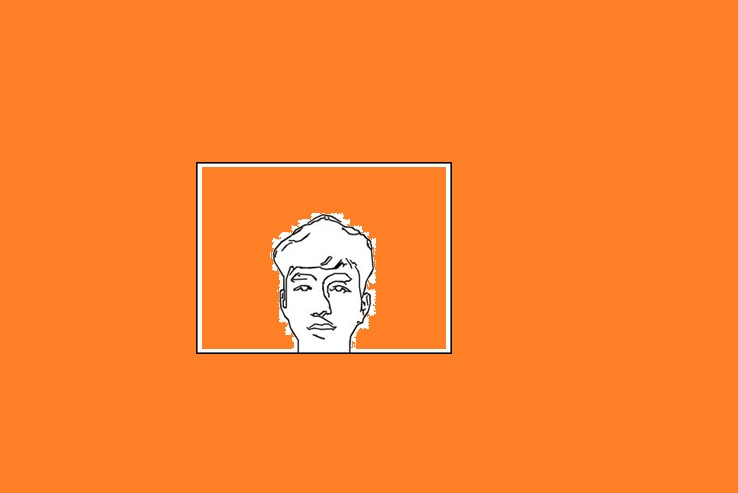
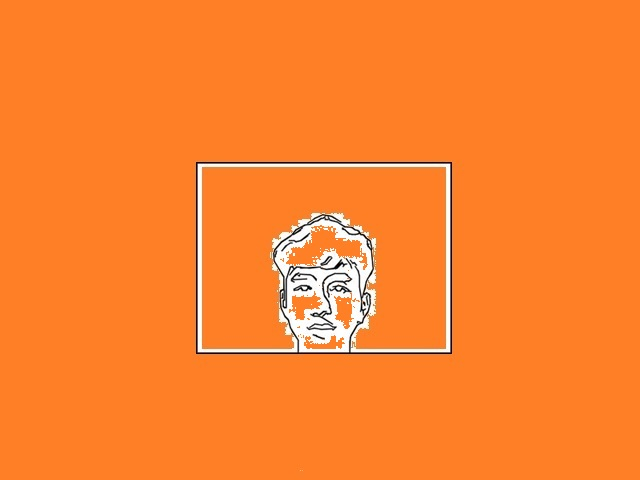
update sharping, change brightness and saturation of camera

Changed region(s): [[0.25, 0.3125, 0.7188, 0.75]]

diff --git a/EvaluateResult/extract_frame.py b/EvaluateResult/extract_frame.py
@@ -4,7 +4,7 @@ import numpy as np
 from PIL import Image
 import os
 from EvaluateResult import helper_image
-
+from PIL import ImageEnhance, ImageFilter
 # === Hàm resize giữ nguyên tỉ lệ, thêm padding trắng ===
 def resize_with_padding(image, target_size=(320, 240), fill_color=(255, 255, 255)):
     original_ratio = image.width / image.height # Tính tỉ lệ gốc của ảnh
@@ -18,12 +18,10 @@ def resize_with_padding(image, target_size=(320, 240), fill_color=(255, 255, 255
         new_width = round(new_height * original_ratio)  # Resize theo chiều dọc
 
     resized_image = image.resize((new_width, new_height), Image.Resampling.LANCZOS)
-    resized_image_cv = np.array(resized_image)[:, :, ::-1]  # Convert RGB (PIL) to BGR (OpenCV)
-    resized_image_cv_rgb = cv2.cvtColor(resized_image_cv, cv2.COLOR_BGR2RGB)
-    new_image = helper_image.filter_color(resized_image_cv_rgb) # lọc màu
-    # Chuyển lại PIL.Image sau khi xử lý
-    final_image = Image.fromarray(new_image)
-    return final_image
+    new_image = Image.new("RGB", target_size, fill_color) # Tạo ảnh nền trắng 320x240
+    offset = ((target_size[0] - new_width) // 2, (target_size[1] - new_height) // 2) # Căn giữa ảnh nhỏ lên nền
+    new_image.paste(resized_image, offset) # Ghép vào giữa
+    return new_image
 
 def preprocessing(img_name):
 # # === Xử lý từng ảnh ===
@@ -33,6 +31,7 @@ def preprocessing(img_name):
     full_path = os.path.join(base_dir, "input_capture_excam", img_name)
 
     img = cv2.imread(full_path)
+    # img = cv2.flip(img, 1)
     if img is None:
         return None
     # === Thư mục đầu ra ===
@@ -40,7 +39,8 @@ def preprocessing(img_name):
     output_inside_dir = 'output_image' # đầu ra chỉ còn ảnh bên trong khung
     os.makedirs(output_frame_dir, exist_ok=True)
     os.makedirs(output_inside_dir, exist_ok=True)
-
+    filtered = helper_image.filter_color(img)
+    img = cv2.cvtColor(filtered, cv2.COLOR_GRAY2BGR)
     gray = cv2.cvtColor(img, cv2.COLOR_BGR2GRAY)
     _, thresh = cv2.threshold(gray, 200, 255, cv2.THRESH_BINARY_INV)  # Nhị phân hóa để dễ tìm khung
     contours, _ = cv2.findContours(thresh, cv2.RETR_EXTERNAL, cv2.CHAIN_APPROX_SIMPLE)  # Tìm contour ngoài cùng
@@ -58,10 +58,10 @@ def preprocessing(img_name):
         x, y, w, h = cv2.boundingRect(frame_contour)  # Lấy tọa độ khung chữ nhật
 
         # # === output_frame: CÓ KHUNG, không resize ===
-        # frame_crop = img[y:y + h, x:x + w]  # Cắt nguyên khung
+        frame_crop = img[y:y + h, x:x + w]  # Cắt nguyên khung
         frame_filename = img_name
-        # frame_path = os.path.join(output_frame_dir, frame_filename)
-        # cv2.imwrite(frame_path, frame_crop)
+        frame_path = os.path.join(output_frame_dir, frame_filename)
+        cv2.imwrite(frame_path, frame_crop)
 
         # === output_insideFrame: KHÔNG KHUNG, có resize giữ tỉ lệ ===
         margin = 5  # loại bỏ viền khung
@@ -69,8 +69,12 @@ def preprocessing(img_name):
         pil_image = Image.fromarray(cv2.cvtColor(inner_crop, cv2.COLOR_BGR2RGB))  # Chuyển sang RGB
         resized = resize_with_padding(pil_image, target_size=(320, 240))
         resized = resized.convert("RGB")
-        inside_path = os.path.join(base_dir,output_inside_dir, frame_filename)
-        resized.save(inside_path, dpi=(300, 300))
+
+        # Làm sắc nét ảnh bằng PIL
+        resized = resized.filter(ImageFilter.UnsharpMask(radius=2, percent=150, threshold=3))
+
+        inside_path = os.path.join(base_dir, output_inside_dir, frame_filename)
+        resized.save(inside_path, dpi=(600, 600), quality=100, progressive=True)
 
         print(f"✅ OK: {os.path.basename(full_path)} → xử lý thành công")
         return None

diff --git a/serialWithUI.py b/serialWithUI.py
@@ -367,7 +367,7 @@ class App:
 
         self.build_gui()
         self.start_serial()
-        self.start_camera(1)
+        self.start_camera(0)
 
     def build_gui(self):
         img_frame = ttk.Frame(self.root)
@@ -551,6 +551,7 @@ class App:
         if self.cap:
             self.cap.release()
         self.cap = cv2.VideoCapture(camera_index)
+
         if self.cap.isOpened():
             # Cấu hình camera để giảm lag
             self.cap.set(cv2.CAP_PROP_FRAME_WIDTH, 640)
@@ -560,6 +561,11 @@ class App:
 
     def capture_loop(self):
         while self.running and self.cap and self.cap.isOpened():
+            if self.source_var == "ex_camera":
+                # Set MIN saturation (màu gần trắng đen)
+                self.cap.set(cv2.CAP_PROP_SATURATION, 0)
+                # Set MAX brightness (hình sáng nhất có thể)
+                self.cap.set(cv2.CAP_PROP_BRIGHTNESS, 255)
             ret, frame = self.cap.read()
             if ret:
                 frame = cv2.flip(frame, 1)
@@ -647,7 +653,6 @@ class App:
                         img = Image.open(image_path)
                         img = img.resize((int(1836 * 480 / 3264), 480), Image.LANCZOS)
                         self.right_img_label.after(0, lambda: self.display_image(self.right_img_label, img))
-
                         self.show_mirror = False
                         self.is_simulate_image = False
                         global_var.is_capture = False

diff --git a/camera_test.py b/camera_test.py
@@ -1,0 +1,38 @@
+import cv2
+
+def nothing(x):
+    pass
+
+# Mở camera
+cap = cv2.VideoCapture(1)  # Thay 0 bằng 1 nếu dùng camera ngoài
+
+# Tạo cửa sổ và các thanh trượt
+cv2.namedWindow('Camera Settings')
+
+cv2.createTrackbar('Brightness', 'Camera Settings', 50, 255, nothing)
+cv2.createTrackbar('Contrast', 'Camera Settings', 50, 255, nothing)
+cv2.createTrackbar('Saturation', 'Camera Settings', 50, 255, nothing)
+
+while True:
+    # Đọc giá trị từ thanh trượt
+    brightness = cv2.getTrackbarPos('Brightness', 'Camera Settings')
+    contrast = cv2.getTrackbarPos('Contrast', 'Camera Settings')
+    saturation = cv2.getTrackbarPos('Saturation', 'Camera Settings')
+
+    # Cập nhật các thông số camera
+    cap.set(cv2.CAP_PROP_BRIGHTNESS, brightness)
+    cap.set(cv2.CAP_PROP_CONTRAST, contrast)
+    cap.set(cv2.CAP_PROP_SATURATION, saturation)
+
+    ret, frame = cap.read()
+    if not ret:
+        break
+
+    cv2.imshow('Camera Preview', frame)
+
+    if cv2.waitKey(1) & 0xFF == ord('q'):
+        break
+
+# Cleanup
+cap.release()
+cv2.destroyAllWindows()

diff --git a/EvaluateResult/helper_image.py b/EvaluateResult/helper_image.py
@@ -6,7 +6,7 @@ from matplotlib import pyplot as plt
 def filter_color(image):
     # Define black color range (BGR)
     lower_black = np.array([0, 0, 0])
-    upper_black = np.array([50, 50, 50])  # Cho phép một chút gần đen
+    upper_black = np.array([100, 100, 100])  # Cho phép một chút gần đen
 
     # Create mask: giữ pixel nằm trong vùng "đen"
     mask_black = cv2.inRange(image, lower_black, upper_black) # pixel trong khoảng thành màu trắng, ngoài đen
